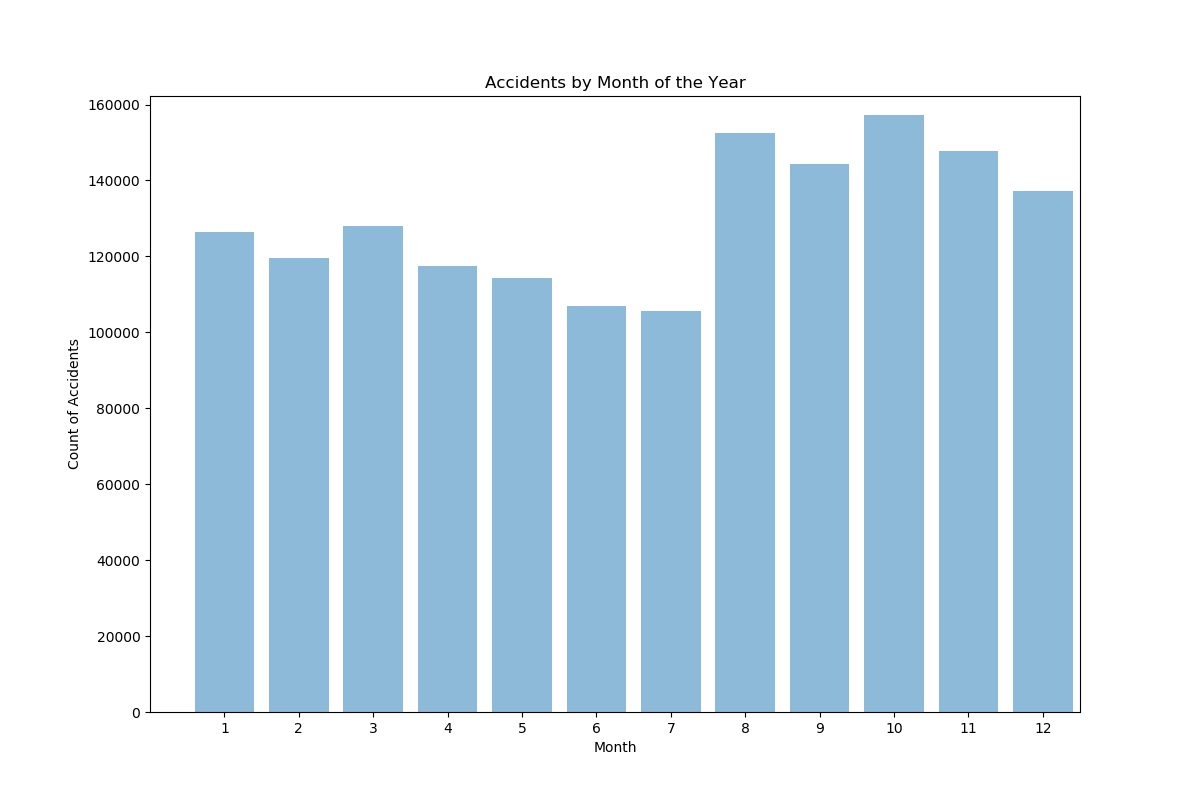
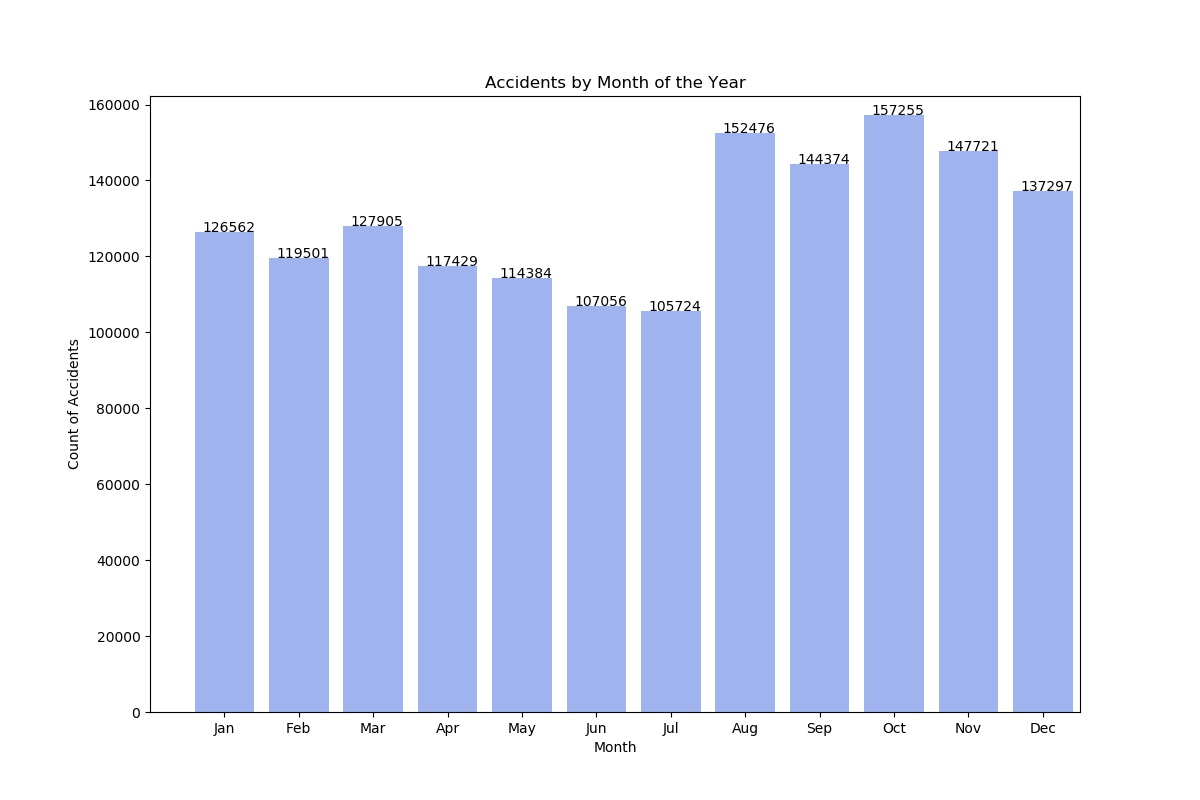
Fixed lables and y-axis tickers

diff --git a/SourceCode/UsAccidentsAnalysisFunctions.py b/SourceCode/UsAccidentsAnalysisFunctions.py
@@ -111,8 +111,8 @@ def accidentsByTimezone(inputDF: pd.DataFrame):
     outputFileSubPath = 'ByTimezone/'
 
     # Get unique timezones & counts
-    timezonesCounts = inputDF['Timezone'].value_counts().tolist()
-    timezonesLabels = inputDF['Timezone'].value_counts().index.tolist()
+    timezonesCounts = inputDF['Timezone'].value_counts().sort_index().tolist()
+    timezonesLabels = inputDF['Timezone'].value_counts().sort_index().index.tolist()
 
     # Unique list all Severity values in the dataset
     uniqueSevList = inputDF['Severity'].value_counts(dropna=False).sort_index().index.tolist()
@@ -125,7 +125,7 @@ def accidentsByTimezone(inputDF: pd.DataFrame):
 
     # 1. Pie Chart (Count(s) of Accidents by timezone)
     # Set the plot attributes & Plot the Pie chart
-    pieExplode = (0.10, 0, 0, 0)    
+    pieExplode = (0, 0, 0, 0)    
     plt.figure(figsize=(12, 8))
     plt.axis("equal")
     plt.pie(timezonesCounts, explode=pieExplode, colors=timezonesGraphColors, labels=timezonesLabels,
@@ -409,9 +409,10 @@ def accidentsByHour(inputDF: pd.DataFrame):
 
 
     # Get unique hours & counts
-    hourCounts = inputDF['Hour'].value_counts()
-    hourLabels = inputDF['Hour'].value_counts().index.tolist()
+    hourCounts = inputDF['Hour'].value_counts(dropna=False).sort_index().tolist()
+    hourLabels = inputDF['Hour'].value_counts(dropna=False).sort_index().index.tolist()
 
+    hourIndex = ['0-1', '1-2', '2-3', '3-4', '4-5', '5-6', '6-7', '7-8', '8-9', '9-10', '10-11', '11-12', '12-13', '13-14', '14-15', '15-16', '16-17', '17-18', '18-19', '19-20', '20-21', '21-22', '22-23', '23-24']
     # Plot the bar grapgh
     plt.figure(figsize=(12, 8))
   
@@ -424,14 +425,19 @@ def accidentsByHour(inputDF: pd.DataFrame):
     plt.xlabel("Hour")
     xlocs, xlabs = plt.xticks()
     xlocs=[i+0 for i in range(0,len(hourCounts))]
-    xlabs=[i+1 for i in range(0,len(hourCounts))]
-    plt.xticks(xlocs, xlabs)
+    xlabs=[i for i in hourIndex]
+    plt.xticks(xlocs, xlabs, rotation = 45)
     # Y-Axis limits & label: 
     plt.ylim(0, max(hourCounts)+10000)
     plt.ylabel("Count of Accidents")
     # Plot 
-    plt.bar(hourLabels, hourCounts, alpha=0.5, align="center")
+    plt.bar(hourLabels, hourCounts, alpha=0.5, align="center", color=barColors)
     plt.title("Accidents by Hours of the Day")
+    ### Commented - Lack of space to put tick labels for each hour
+    # # put value labes for Y-Axis 
+    # for i, v in enumerate(hourCounts):
+    #     # Tip: Adjust -0.10 & +0.01 for positioning the lable text in the bar column
+    #     plt.text(xlocs[i] -0.125, v + 0.01, str(v))
     
     # Define & Save: Output file - Bar chart
     outputFile = outputFilePath + outputFileSubPath + 'HourOfDay_Accidents_Counts.jpg'
@@ -449,8 +455,8 @@ def accidentsByDay(inputDF: pd.DataFrame):
     # Chart by day of the week
 
     # Get unique hours & counts
-    weekdayCounts = inputDF['Weekday'].value_counts()
-    weekdayLabels = inputDF['Weekday'].value_counts().index.tolist()
+    weekdayCounts = inputDF['Weekday'].value_counts(dropna=False).tolist()
+    weekdayLabels = inputDF['Weekday'].value_counts(dropna=False).index.tolist()
 
     # Plot the bar grapgh
     plt.figure(figsize=(12, 8))
@@ -464,14 +470,18 @@ def accidentsByDay(inputDF: pd.DataFrame):
     plt.xlabel("Weekday")
     xlocs, xlabs = plt.xticks()
     xlocs=[i+0 for i in range(0,len(weekdayCounts))]
-    xlabs=[i+1 for i in range(0,len(weekdayCounts))]
+    xlabs=[i for i in weekdayLabels]
     plt.xticks(xlocs, xlabs)
     # Y-Axis limits & label: 
     plt.ylim(0, max(weekdayCounts)+25000)
     plt.ylabel("Count of Accidents")
     # Plot 
-    plt.bar(weekdayLabels, weekdayCounts, alpha=0.5, align="center")
+    plt.bar(weekdayLabels, weekdayCounts, alpha=0.5, align="center", color=barColors)
     plt.title("Accidents by Day of the Week")
+    # put value labes for Y-Axis 
+    for i, v in enumerate(weekdayCounts):
+        # Tip: Adjust -0.10 & +0.01 for positioning the lable text in the bar column
+        plt.text(xlocs[i] -0.30, v + 0.01, str(v))
     
     # Define & Save: Output file - Bar chart
     outputFile = outputFilePath + outputFileSubPath + 'DayOfWeek_Accidents_Counts.jpg'
@@ -487,8 +497,8 @@ def accidentsByMonth(inputDF: pd.DataFrame):
     outputFileSubPath = 'ByMonth/'
 
     # Get unique hours & counts
-    monthCounts = inputDF['Month'].value_counts()
-    monthLabels = inputDF['Month'].value_counts().index.tolist()
+    monthCounts = inputDF['Month'].value_counts(dropna=False).sort_index().tolist()
+    monthLabels = inputDF['Month'].value_counts(dropna=False).sort_index().index.tolist()
     
     # Get counts by YYYY-MM
     yyyymmCounts = inputDF['Year-Month'].value_counts(dropna=False).sort_index().tolist()
@@ -498,14 +508,17 @@ def accidentsByMonth(inputDF: pd.DataFrame):
     yyyymmCounts2018 = inputDF[inputDF['Year'] == 2018]['Year-Month'].value_counts(dropna=False).sort_index().tolist()
     yyyymmLabels2018 = inputDF[inputDF['Year'] == 2018]['Year-Month'].value_counts(dropna=False).sort_index().index.tolist()
 
+    monthIndex = ['Jan', 'Feb', 'Mar', 'Apr', 'May', 'Jun', 'Jul', 'Aug', 'Sep', 'Oct', 'Nov', 'Dec']
+
+    # colors
+    barColors = ['royalblue']
 
     # 1. Plot the bar grapgh
     plt.figure(figsize=(12, 8))
-    plt.bar(monthLabels, monthCounts, alpha=0.5, align="center")
+    # plt.bar(monthLabels, monthCounts, alpha=0.5, align="center")
+    plt.bar(monthLabels, monthCounts, alpha=0.5, align="center", color=barColors)
 
     # Set the bar chart attributes such as X-Axis, Y-Axis, colors etc.
-    # colors
-    barColors = ['royalblue']
     # title
     plt.title("Accidents by Month of the Year")
 
@@ -514,10 +527,16 @@ def accidentsByMonth(inputDF: pd.DataFrame):
     plt.xlabel("Month")
     xlocs, xlabs = plt.xticks()
     xlocs=[i+1 for i in range(0,len(monthCounts))]
-    xlabs=[i+1 for i in range(0,len(monthCounts))]
+    # xlabs=[i+1 for i in range(0,len(monthCounts))]
+    xlabs=[i for i in monthIndex]
     plt.xticks(xlocs, xlabs)
     plt.ylim(0, max(monthCounts)+5000)
     plt.ylabel("Count of Accidents")
+
+    # put value labes for Y-Axis 
+    for i, v in enumerate(monthCounts):
+        # Tip: Adjust -0.10 & +0.01 for positioning the lable text in the bar column
+        plt.text(xlocs[i] -0.30, v + 0.01, str(v))
 
    # Define & Save: Output file - Bar chart
     outputFile = outputFilePath  + outputFileSubPath + 'MonthOfYear_Accidents_Counts.jpg'
@@ -531,7 +550,6 @@ def accidentsByMonth(inputDF: pd.DataFrame):
     # 2. Plot a line graph comparing monthly progression by year 
     plt.figure(figsize=(12, 8))
 
-    monthIndex = ['Jan', 'Feb', 'Mar', 'Apr', 'May', 'Jun', 'Jul', 'Aug', 'Sep', 'Oct', 'Nov', 'Dec']
     # Set the bar chart attributes such as X-Axis, Y-Axis, colors etc.
     # colors
     lineColors = ['royalblue', 'darkorange' ]
